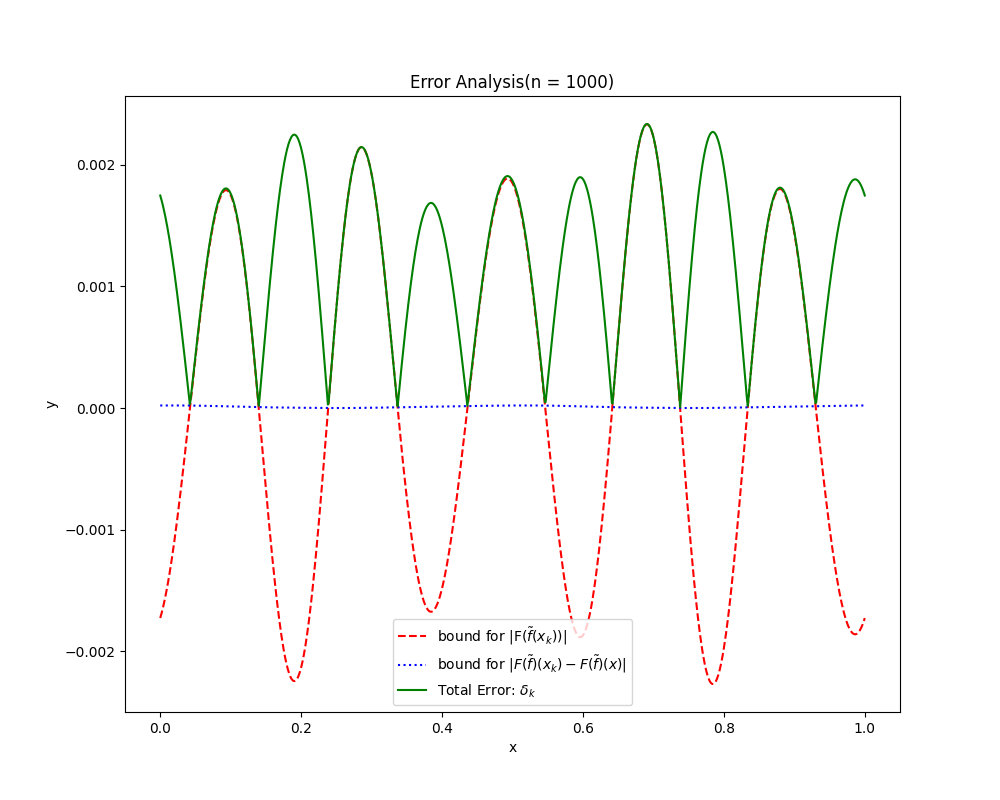
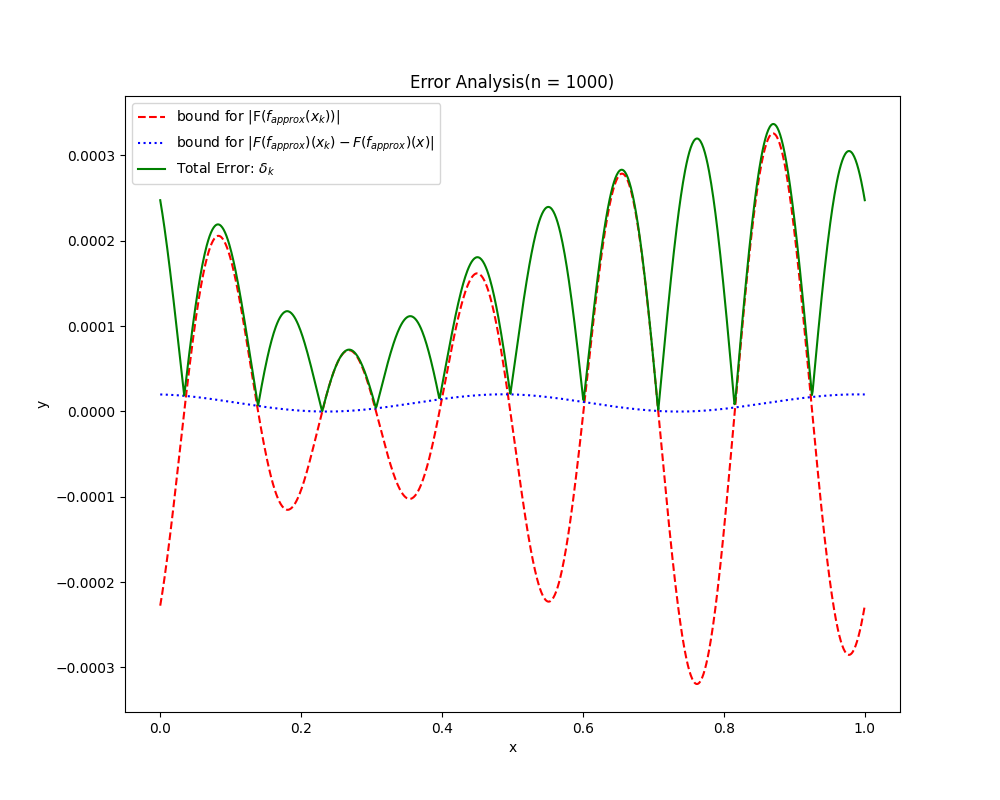
‘new’

diff --git a/pde_solver.py b/pde_solver.py
@@ -21,7 +21,7 @@ class SineActivation(Layer):
 NN = tf.keras.models.Sequential([
         tf.keras.layers.Input((1,)),
         SineActivation(),
-        tf.keras.layers.Dense(units=64, activation='tanh'),
+        tf.keras.layers.Dense(units=64, activation='sigmoid'),
         tf.keras.layers.Dense(units=1),
     ])
 
@@ -50,13 +50,15 @@ def ode_system(t, rho, net):
 
     u_tt = tape1.gradient(u_t, t)
     u_t2 = 2 * u * u_t  # Chain rule for derivative of u*u with respect to t
+    '''
     indices = [0, 10, 20]
     for idx in indices:
         print(f"u_tt[{t[idx,0].numpy()}]: {u_tt[idx,0].numpy()}, u_t2[{t[idx,0].numpy()}]: {u_t2[idx,0].numpy()}")
-
+    '''
 
     ode_loss = - u_tt + u_t2  - rho(t)   # for non-trivial solution, add rho(t)
-    square_loss = tf.square(ode_loss)
+    IC_loss = net(t_0) - 0  # Initial condition
+    square_loss = tf.square(ode_loss) 
     total_loss = tf.reduce_mean(square_loss)
 
     del tape1, tape2
@@ -68,10 +70,10 @@ def ode_system(t, rho, net):
 
 
 
-def net(t):
-    return (1/330) * tf.sin(2 * np.pi * t)
+def t_function(t):
+    return (1/280) * tf.sin(2 * np.pi * t)
 test_t = np.linspace(0, 1, 100).astype(np.float64)
-total, ode = ode_system(test_t, rho_sin, net)
+total, ode = ode_system(test_t, rho_sin, t_function)
 #print mean of ode.numpy()
 
 
@@ -171,7 +173,7 @@ train_loss_record = []
 
 optm = tf.keras.optimizers.Adam(learning_rate=0.001)
 
-for itr in range(2001):
+for itr in range(1001):
     with tf.GradientTape() as tape:
         train_loss, _ = ode_system(tf.constant(train_t),rho_sin, NN)
         train_loss_record.append(train_loss.numpy())
@@ -218,8 +220,8 @@ print(f"Error in L2: {errors_in_l2}")
 
 #Plot the error bounds
 plt.figure(figsize=(10, 8))
-plt.plot(x_i[:len(residuals)], residuals, '--r', label=r'bound for |F($\tilde{f} (x_k)$)|')
-plt.plot(x_i[:len(residuals)], error_bounds[:len(residuals)], ':b', label=r'bound for |$F(\tilde{f})(x_k) - F(\tilde{f})(x)$|')
+plt.plot(x_i[:len(residuals)], residuals, '--r', label=r'bound for |F($f_{approx} (x_k)$)|')
+plt.plot(x_i[:len(residuals)], error_bounds[:len(residuals)], ':b', label=r'bound for |$F(f_{approx})(x_k) - F(f_{approx})(x)$|')
 plt.plot(x_i[:len(residuals)], total_errors, '-g', label=r'Total Error: $\delta_k$')
 plt.xlabel('x')
 plt.ylabel('y')
@@ -235,8 +237,8 @@ pred_u = NN.predict(test_t).ravel()
 int_bound =  lower_bound_int(NN)
 print(int_bound)
 plt.figure(figsize=(10, 8))
-#plt.plot(test_t, pred_u, '-.r', label=r'$\tilde{f}(x)$') pred_u - int_bound
-plt.plot(test_t, NN(test_t) - int_bound, '--g', label=r'$\tilde{f}_{Mean Zero} (x)$')
+plt.plot(test_t, pred_u, '-.r', label=r'$f_{approx}(x)$')
+plt.plot(test_t,  pred_u - int_bound, '--g', label=r'$\tilde{f} (x)$')
 #plt.plot(test_t, 0 * test_t, '--k', label='zero_solution')
 plt.legend()
 plt.xlabel('x')
@@ -247,11 +249,11 @@ plt.savefig("PINN_result.png")  # Save plot
 
 plt.figure(figsize=(10, 8))
 #plt.plot(test_t, 0 * test_t , '-k', label='Zero Solution', linewidth=3, alpha=0.8)
-plt.plot(test_t, pred_u, '--r', label=r'$\tilde{f}_{Mean Zero} (x)$', linewidth=1, alpha=1)
+plt.plot(test_t, pred_u, '--r', label=r'$\tilde{f}(x)$', linewidth=1, alpha=1)
 plt.ylim(-1, 1)
 plt.legend()
 plt.xlabel('x')
-plt.ylabel(r'$\tilde{f}_{Mean Zero} (x)$')
+plt.ylabel(r'$\tilde{f} (x)$')
 plt.title('Approximate solution Plot')
 plt.savefig("result_axis.png")
 
